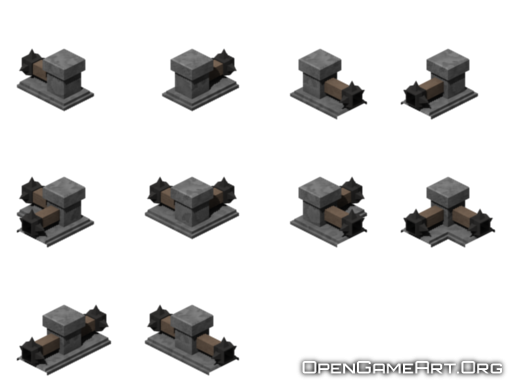
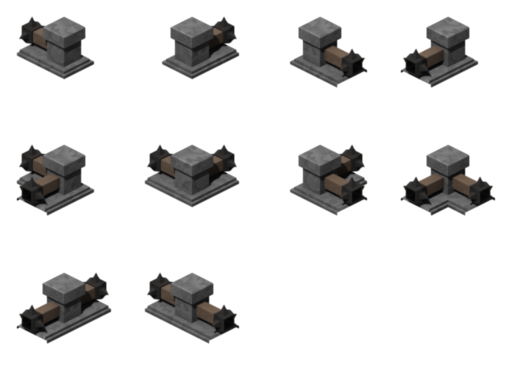
1

diff --git a/core/src/com/geekmecrazy/madandarmed/Renderer/FightBuildingRenderer.java b/core/src/com/geekmecrazy/madandarmed/Renderer/FightBuildingRenderer.java
@@ -1,9 +1,9 @@
 package com.geekmecrazy.madandarmed.Renderer;
 
 import com.geekmecrazy.madandarmed.Core.GlobalManager;
-import com.geekmecrazy.madandarmed.CoreConfig.TextureType;
 import com.geekmecrazy.madandarmed.Entity.IsoShape;
-import com.geekmecrazy.madandarmed.Entity.Sprite.Sprite;
+import com.geekmecrazy.madandarmed.Entity.Sprite.AnimatedSprite;
+import com.geekmecrazy.madandarmed.Entity.Sprite.SpriteSheet;
 import com.geekmecrazy.madandarmed.Game.Tween.ShapeTween;
 import com.geekmecrazy.madandarmed.Game.Tween.SpriteTween;
 
@@ -14,7 +14,7 @@ import aurelienribon.tweenengine.TweenCallback;
 
 public class FightBuildingRenderer extends IsoShape/* implements IMoveable*/{
 
-    private Sprite icon;
+    private AnimatedSprite buildingSprite;
     
     private boolean isDark;
 
@@ -26,7 +26,7 @@ public class FightBuildingRenderer extends IsoShape/* implements IMoveable*/{
     public FightBuildingRenderer(){
         super();
         
-        icon = new Sprite();
+        buildingSprite = new AnimatedSprite();
     }
 
 
@@ -37,14 +37,6 @@ public class FightBuildingRenderer extends IsoShape/* implements IMoveable*/{
 	// ===========================================================
 	// Methods for/from SuperClass/Interfaces
 	// ===========================================================
-
-    @Override
-    public void setSize(float w,float h){
-        super.setSize(w, h);
-
-        float arrowPercentSize = 1f;
-        icon.setSize(w,h);
-    }
     
     @Override
     public void setFocusState(){
@@ -94,19 +86,21 @@ public class FightBuildingRenderer extends IsoShape/* implements IMoveable*/{
 
     @Override
     public void reset(){
-    	icon.reset();
+    	buildingSprite.reset();
     }
     
 	// ===========================================================
 	// Methods
 	// ===========================================================
     
-    public void init(TextureType pTextureType){
-        super.init(0, 0, pTextureType.getWidth(), pTextureType.getHeight());
+    public void init(final SpriteSheet pSpriteSheet){
+        super.init(0, 0, pSpriteSheet.getFrameSize(0, 0), pSpriteSheet.getFrameSize(0, 0));
 
-        icon.init(pTextureType);
-        icon.setAlignment(Alignment.CENTER);
-        this.attachChild(icon);
+        buildingSprite.init(pSpriteSheet, 0, 0);
+        buildingSprite.setAlignment(Alignment.CENTER);
+        this.attachChild(buildingSprite);
+        
+        
         
         isDark = false;
     }
@@ -119,7 +113,7 @@ public class FightBuildingRenderer extends IsoShape/* implements IMoveable*/{
     }
     
     public void unshine(){
-        this.icon.setColor(1f,1f,1f,1f);
+        this.buildingSprite.setColor(1f,1f,1f,1f);
         GlobalManager.getTweenManager().killAll();
     }
     
@@ -132,7 +126,7 @@ public class FightBuildingRenderer extends IsoShape/* implements IMoveable*/{
 
     public void shine(float r,float g,float b){
         Tween
-                .to(this.icon, SpriteTween.COLOR, 0.42f)
+                .to(this.buildingSprite, SpriteTween.COLOR, 0.42f)
                 .target(r, g, b)
                 .setCallbackTriggers(TweenCallback.END)
                 .setCallback(new TweenCallback() {

diff --git a/core/src/com/geekmecrazy/madandarmed/Game/Scene/FightScreen.java b/core/src/com/geekmecrazy/madandarmed/Game/Scene/FightScreen.java
@@ -1,13 +1,18 @@
 package com.geekmecrazy.madandarmed.Game.Scene;
 
 import com.geekmecrazy.madandarmed.Core.GlobalManager;
+import com.geekmecrazy.madandarmed.CoreConfig.AnimatedTextureType;
 import com.geekmecrazy.madandarmed.CoreConfig.TextureType;
 import com.geekmecrazy.madandarmed.Entity.Entity;
 import com.geekmecrazy.madandarmed.Entity.IUpdatable;
+import com.geekmecrazy.madandarmed.Entity.Entity.Alignment;
 import com.geekmecrazy.madandarmed.Entity.Scene.Scene;
 import com.geekmecrazy.madandarmed.Entity.Sprite.Sprite;
+import com.geekmecrazy.madandarmed.Entity.Sprite.SpriteSheet;
+import com.geekmecrazy.madandarmed.Game.IAction;
 import com.geekmecrazy.madandarmed.Game.Element.Team;
 import com.geekmecrazy.madandarmed.Game.Element.Property.GameMap;
+import com.geekmecrazy.madandarmed.Game.UI.Button;
 import com.geekmecrazy.madandarmed.Game.UI.ScoreBarUI;
 import com.geekmecrazy.madandarmed.Game.UI.UIFinishGame;
 import com.geekmecrazy.madandarmed.Game.UI.UnitButtonUI;
@@ -208,6 +213,21 @@ public class FightScreen extends Screen implements IUpdatable {
         mScoreBarUI.init(0, 0);
         this.getHUD().attachChild(mScoreBarUI, Entity.Alignment.LEFT_TOP);
 
+        /** Barricade Button */
+        Button newBarricadButton = new Button();
+        newBarricadButton.init(0, 0, TextureType.BARRICADE_ICON);
+        newBarricadButton.setAction(new IAction(){
+            @Override
+            public void execute(){
+                System.out.println("#### TOUCH BARRICADE BUTTON !!");
+            }
+        });
+        newBarricadButton.setSize(1.5f, 1.5f);
+        this.getHUD().attachChild(newBarricadButton, Entity.Alignment.RIGHT_BOTTOM);
+        FightScreen.getManager().getHUD().registerTouchableShape(newBarricadButton);
+        
+        
+
         /** Init IsoGrid */
         IsoGrid grid = new IsoGrid();
         grid.init(GlobalManager.GROUNDTILEDWIDTH, GlobalManager.GROUNDTILEDHEIGHT, this.getScene());
@@ -218,16 +238,18 @@ public class FightScreen extends Screen implements IUpdatable {
         //TEST ISO
         /*
         Sprite testIsoSprite = new Sprite();
-        testIsoSprite.init(TextureType.TILE_FULL_RED);
+        testIsoSprite.init(TextureType.BARRICADE_ICON2);
         grid.place(testIsoSprite, 20, 50);
         this.getScene().attachChild(testIsoSprite);
         */
         FightBuildingRenderer fBR = new FightBuildingRenderer();
-        fBR.init(TextureType.TILE_FULL_RED);
+        SpriteSheet sp = new SpriteSheet(AnimatedTextureType.BARRICADES, true);
+        fBR.init(sp);
         fBR.setGrid(grid);
         grid.place(fBR, 20, 50);
         this.getScene().attachChild(fBR);
         this.getScene().registerTouchableShape(fBR);
+        
         //FIN TEST
         
         

diff --git a/core/src/com/geekmecrazy/madandarmed/Renderer/HQBuildingRenderer.java b/core/src/com/geekmecrazy/madandarmed/Renderer/HQBuildingRenderer.java
@@ -51,20 +51,6 @@ public class HQBuildingRenderer extends OrthoShape/* implements IMoveable*/{
 	// ===========================================================
 
     @Override
-    public void setSize(float w,float h){
-        super.setSize(w, h);
-
-        float arrowPercentSize = 1f;
-
-        icon.setSize(w,h);
-        topArrow.setSize(topArrow.getWidth() * arrowPercentSize, topArrow.getHeight() * arrowPercentSize);
-        leftArrow.setSize(leftArrow.getWidth() * arrowPercentSize, leftArrow.getHeight() * arrowPercentSize);
-        bottomArrow.setSize(bottomArrow.getWidth() * arrowPercentSize, bottomArrow.getHeight() * arrowPercentSize);
-        rightArrow.setSize(rightArrow.getWidth() * arrowPercentSize, rightArrow.getHeight() * arrowPercentSize);
-        groundSquare.setSize(icon.getWidth(), icon.getHeight());
-    }
-    
-    @Override
     public void setFocusState(){
         if(this.getState() == OrthoShapeState.FOCUSED){
             unfocus();

diff --git a/core/src/com/geekmecrazy/madandarmed/CoreConfig/TextureType.java b/core/src/com/geekmecrazy/madandarmed/CoreConfig/TextureType.java
@@ -99,14 +99,17 @@ public enum TextureType{
     PLANT_03_MEDIUM                    ("game/Decorations/Plant03_128.png", 128, 128),
 
     //HQ
-    BUILDING_TEST       ("game/building_test.png", 200, 200),
+    BUILDING_TEST       	("game/building_test.png", 200, 200),
     //GREEN_ARROW_LEFT    ("game/greenArrow_left.png", 256, 256),
     //GREEN_ARROW_TOP     ("game/greenArrow_top.png", 256, 256),
     //GREEN_ARROW_RIGHT   ("game/greenArrow_right.png", 256, 256),
     //GREEN_ARROW_BOTTOM  ("game/greenArrow_bottom.png", 256, 256);
 	
-	ORTHOGRID       ("game/OrthometricGrid.png", 2048, 2048),
-	ISOGRID       ("game/IsometricGrid.png", 1024, 1024),
+	ORTHOGRID       		("game/OrthometricGrid.png", 2048, 2048),
+	ISOGRID       			("game/IsometricGrid.png", 1024, 1024),
+	
+	BARRICADE_ICON 			("game/BarricadeIcon.png", 1f, 1f),
+	BARRICADE_ICON2 			("game/BarricadeIcon.png", 128, 128),
 	
 	;
 

diff --git a/core/src/com/geekmecrazy/madandarmed/Entity/Entity.java b/core/src/com/geekmecrazy/madandarmed/Entity/Entity.java
@@ -28,6 +28,8 @@ public class Entity implements IDrawable, IUpdatable, Poolable {
         CENTER_LEFT,
         CENTER_RIGHT,
         LEFT_BOTTOM,
+        RIGHT_BOTTOM,
+        RIGHT_TOP,
 
         NONE
     }
@@ -474,6 +476,14 @@ public class Entity implements IDrawable, IUpdatable, Poolable {
             case LEFT_BOTTOM:
                 this.setAlignmentX(Alignment.LEFT);
                 this.setAlignmentY(Alignment.BOTTOM);
+                break;
+            case RIGHT_BOTTOM:
+                this.setAlignmentX(Alignment.RIGHT);
+                this.setAlignmentY(Alignment.BOTTOM);
+                break;
+            case RIGHT_TOP:
+                this.setAlignmentX(Alignment.RIGHT);
+                this.setAlignmentY(Alignment.TOP);
                 break;
             case NONE:
                 this.setAlignmentX(Alignment.NONE);

diff --git a/core/src/com/geekmecrazy/madandarmed/Game/UI/Button.java b/core/src/com/geekmecrazy/madandarmed/Game/UI/Button.java
@@ -3,16 +3,13 @@ package com.geekmecrazy.madandarmed.Game.UI;
 import com.geekmecrazy.madandarmed.Core.GlobalManager;
 import com.geekmecrazy.madandarmed.CoreConfig.TextureType;
 import com.geekmecrazy.madandarmed.Entity.Entity;
-import com.geekmecrazy.madandarmed.Entity.Rectangle;
 import com.geekmecrazy.madandarmed.Entity.Shape;
 import com.geekmecrazy.madandarmed.Entity.Sprite.Sprite;
 import com.geekmecrazy.madandarmed.Game.IAction;
 import com.geekmecrazy.madandarmed.Game.Tween.ButtonTween;
 import com.geekmecrazy.madandarmed.Input.MyGestureDetector;
 
-import aurelienribon.tweenengine.BaseTween;
 import aurelienribon.tweenengine.Tween;
-import aurelienribon.tweenengine.TweenCallback;
 
 public class Button extends Shape{
 

diff --git a/core/src/com/geekmecrazy/madandarmed/Renderer/BuildingRenderer.java b/core/src/com/geekmecrazy/madandarmed/Renderer/BuildingRenderer.java
@@ -2,10 +2,8 @@ package com.geekmecrazy.madandarmed.Renderer;
 
 import com.geekmecrazy.madandarmed.Core.GlobalManager;
 import com.geekmecrazy.madandarmed.CoreConfig.AnimatedTextureType;
-import com.geekmecrazy.madandarmed.Entity.Rectangle;
 import com.geekmecrazy.madandarmed.Entity.Sprite.SpriteSheet;
 import com.geekmecrazy.madandarmed.Game.Element.Building;
-import com.geekmecrazy.madandarmed.Game.Element.Creep;
 import com.geekmecrazy.madandarmed.Pattern.BuildingPattern;
 
 

diff --git a/core/src/com/geekmecrazy/madandarmed/Entity/Sprite/AnimatedSprite.java b/core/src/com/geekmecrazy/madandarmed/Entity/Sprite/AnimatedSprite.java
@@ -1,10 +1,7 @@
 package com.geekmecrazy.madandarmed.Entity.Sprite;
 
 import com.geekmecrazy.madandarmed.Core.GlobalManager;
-import com.geekmecrazy.madandarmed.Entity.Shape;
-import com.geekmecrazy.madandarmed.Entity.Rectangle;
 import com.geekmecrazy.madandarmed.Input.MyGestureDetector;
-import com.geekmecrazy.madandarmed.Input.MyGestureListener;
 import com.badlogic.gdx.graphics.g2d.TextureRegion;
 
 

diff --git a/core/src/com/geekmecrazy/madandarmed/CoreConfig/AnimatedTextureType.java b/core/src/com/geekmecrazy/madandarmed/CoreConfig/AnimatedTextureType.java
@@ -205,6 +205,9 @@ public enum AnimatedTextureType {
     TURRET_02_HD_TEAM2_02   ("game/HD/Turret02_256px_Blue/Fr-Launcher-03-blue_256px_0000_0000#0002.png", 1024, 256, 4, 1),
     TURRET_02_HD_TEAM2_03   ("game/HD/Turret02_256px_Blue/Fr-Launcher-03-blue_256px_0000_0000#0003.png", 1024, 256, 4, 1),
 
+    
+    //BARRICADE
+    BARRICADES				("game/barricade_tiles.png", 512, 384, 4, 3, 128);
 
 	;
 
